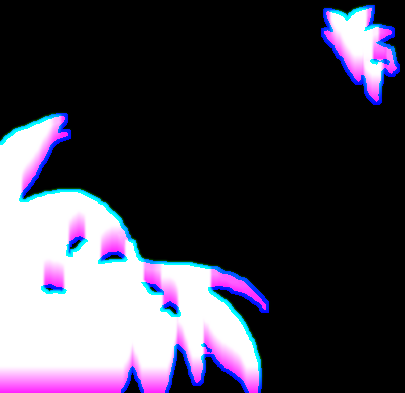
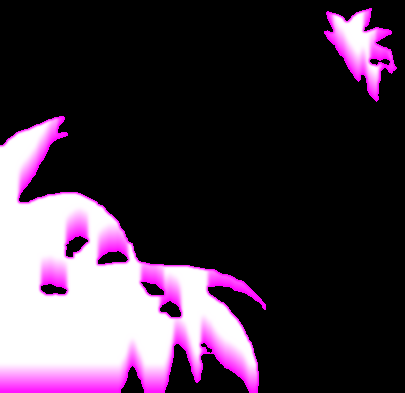
Smooth the living covers: still edges, no ghost clouds
The sky drifts over a smoothed copy of itself, so no second cloud shows
through, and its mask keeps 4 px clear of outlines. Leaves move only inside
their own shape, and water and leaves blend between pixels instead of
jumping. The painted-out tree backgrounds are no longer needed.

Changed region(s): [[0.0, 0.2748, 0.6815, 1.0], [0.7704, 0.0, 1.0, 0.2748]]

diff --git a/assets/js/living-covers-data.js b/assets/js/living-covers-data.js
@@ -2,19 +2,19 @@
    Generated from the cover masks; see assets/img/research/living/README.md.
    Boxes are in the 640 x 960 cover space. Nothing here is research data. */
 window.LonghandLiving = {
-    'nvda-2026-10-25': {"id": "nvda-road", "warps": [{"type": "flow", "box": [433, 556, 207, 252], "amp": 2.6}, {"type": "sway", "box": [0, 411, 640, 520], "amp": 3.4}, {"type": "track", "box": [525, 655, 115, 63], "origin": [3.75, 7.938], "dir": [0.912, 0.41], "length": 121.995, "across": [-5.625, 2.5], "speed": 4.375}, {"type": "twinkle", "box": [439, 562, 201, 223], "amp": 1}], "sprites": [], "hoist": {"pivot": [518.125, 376.25], "load": [512.5, 397.5, 11.875, 10.0], "lift": 12.5, "swing": 2.2, "period": 9}, "base": true, "sky": 2.2},
-    'ihsg-weekly-2026-10-23': {"id": "ihsg-plaza", "warps": [{"type": "sway", "box": [0, 253, 640, 418], "amp": 4.2}], "sprites": [], "sky": 2.6},
-    'ihsg-weekly-2026-10-16': {"id": "ihsg-trust", "warps": [], "sprites": [{"name": "pan-left", "box": [48, 192, 196, 270], "origin": [0.52, 0.034], "swing": 2.0, "period": 4.6, "phase": 0}, {"name": "pan-right", "box": [392, 325, 199, 263], "origin": [0.464, 0.007], "swing": 1.6, "period": 5.2, "phase": 0.5}], "base": true, "sky": 2.2},
-    'more-nickel-2026-10-15': {"id": "nickel-seaview", "warps": [{"type": "flow", "box": [0, 342, 640, 618], "amp": 3.8}, {"type": "twinkle", "box": [0, 384, 640, 576], "amp": 1}], "sprites": [], "sky": 2.4},
-    'ihsg-weekly-2026-10-09': {"id": "ihsg-recovery", "warps": [{"type": "sway", "box": [0, 731, 640, 229], "amp": 4.0}, {"type": "twinkle", "box": [0, 337, 640, 507], "amp": 1}], "sprites": [], "sky": 2.2},
-    'adro-2026-09-03': {"id": "smelter", "warps": [], "sprites": [], "sky": 2.8},
-    'macro-2026-09-24': {"id": "rates", "warps": [{"type": "sway", "box": [0, 244, 135, 317], "amp": 4.6}], "sprites": [], "sky": 2.6},
-    'the-power-behind-ai-2026-09-24': {"id": "ai-power", "warps": [{"type": "sway", "box": [0, 585, 598, 375], "amp": 4.0}, {"type": "twinkle", "box": [0, 272, 640, 647], "amp": 1}], "sprites": [], "sky": 2.2},
-    'ihsg-weekly-2026-09-25': {"id": "ihsg-september", "warps": [{"type": "sway", "box": [0, 567, 405, 393], "amp": 3.6}], "sprites": [], "sky": 2.4},
-    'inet-2026-09-27': {"id": "inet", "warps": [{"type": "flow", "box": [0, 339, 640, 298], "amp": 3.6}, {"type": "sway", "box": [0, 804, 640, 156], "amp": 4.0}, {"type": "twinkle", "box": [0, 370, 640, 251], "amp": 1}], "sprites": [], "sky": 2.4},
-    'ihsg-weekly-2026-10-02': {"id": "ihsg-october", "warps": [{"type": "sway", "box": [0, 614, 544, 346], "amp": 4.0}, {"type": "twinkle", "box": [0, 205, 640, 755], "amp": 1}], "sprites": [], "sky": 2.4},
-    'indonesia-ai-power-water-2026-10-05': {"id": "ai-resource", "warps": [{"type": "flow", "box": [0, 604, 640, 315], "amp": 3.6}, {"type": "sway", "box": [0, 206, 640, 754], "amp": 4.2}, {"type": "twinkle", "box": [17, 611, 623, 302], "amp": 1}], "sprites": [], "sky": 2.4},
-    'us-treasury-update-2026-10-08': {"id": "treasury", "warps": [{"type": "sway", "box": [0, 189, 640, 650], "amp": 3.6}], "sprites": [], "sky": 2.4},
-    'coal-in-transition-2026-10-08': {"id": "coal-trade", "warps": [{"type": "flow", "box": [0, 373, 640, 359], "amp": 3.6}, {"type": "twinkle", "box": [0, 379, 640, 347], "amp": 1}], "sprites": [], "sky": 2.4},
-    'the-power-behind-ai-update-2026-10-09': {"id": "ai-october", "warps": [{"type": "flow", "box": [196, 336, 444, 91], "amp": 3.4}, {"type": "sway", "box": [0, 119, 170, 398], "amp": 4.2}, {"type": "twinkle", "box": [208, 343, 432, 78], "amp": 1}], "sprites": [], "sky": 2.4}
+    'nvda-2026-10-25': {"id": "nvda-road", "warps": [{"type": "flow", "box": [433, 556, 207, 252], "amp": 2.08}, {"type": "sway", "box": [0, 411, 640, 520], "amp": 2.04}, {"type": "track", "box": [525, 655, 115, 63], "origin": [3.75, 7.9375], "dir": [0.9119215051751063, 0.41036467732879783], "length": 121.99514910950354, "across": [-5.625, 2.5], "speed": 4.375}, {"type": "twinkle", "box": [439, 562, 201, 223], "amp": 1}], "sprites": [], "hoist": {"pivot": [518.125, 376.25], "load": [512.5, 397.5, 11.875, 10.0], "lift": 12.5, "swing": 2.2, "period": 9}, "sky": 2.2, "base": true},
+    'ihsg-weekly-2026-10-23': {"id": "ihsg-plaza", "warps": [{"type": "sway", "box": [0, 253, 640, 418], "amp": 2.52}], "sprites": [], "sky": 2.6, "base": true},
+    'ihsg-weekly-2026-10-16': {"id": "ihsg-trust", "warps": [], "sprites": [{"name": "pan-left", "box": [48, 192, 196, 270], "origin": [0.5204081632653061, 0.03425925925925926], "swing": 2.0, "period": 4.6, "phase": 0}, {"name": "pan-right", "box": [392, 325, 199, 263], "origin": [0.4641959798994975, 0.007129277566539924], "swing": 1.6, "period": 5.2, "phase": 0.5}], "sky": 2.2, "base": true},
+    'more-nickel-2026-10-15': {"id": "nickel-seaview", "warps": [{"type": "flow", "box": [0, 342, 640, 618], "amp": 3.04}, {"type": "twinkle", "box": [0, 384, 640, 576], "amp": 1}], "sprites": [], "sky": 2.4, "base": true},
+    'ihsg-weekly-2026-10-09': {"id": "ihsg-recovery", "warps": [{"type": "sway", "box": [0, 731, 640, 229], "amp": 2.4}, {"type": "twinkle", "box": [0, 337, 640, 507], "amp": 1}], "sprites": [], "sky": 2.2, "base": true},
+    'adro-2026-09-03': {"id": "smelter", "warps": [], "sprites": [], "sky": 2.8, "base": true},
+    'macro-2026-09-24': {"id": "rates", "warps": [{"type": "sway", "box": [0, 244, 135, 317], "amp": 2.76}], "sprites": [], "sky": 2.6, "base": true},
+    'the-power-behind-ai-2026-09-24': {"id": "ai-power", "warps": [{"type": "sway", "box": [0, 585, 598, 375], "amp": 2.4}, {"type": "twinkle", "box": [0, 272, 640, 647], "amp": 1}], "sprites": [], "sky": 2.2, "base": true},
+    'ihsg-weekly-2026-09-25': {"id": "ihsg-september", "warps": [{"type": "sway", "box": [0, 567, 405, 393], "amp": 2.16}], "sprites": [], "sky": 2.4, "base": true},
+    'inet-2026-09-27': {"id": "inet", "warps": [{"type": "flow", "box": [0, 339, 640, 298], "amp": 2.88}, {"type": "sway", "box": [0, 804, 640, 156], "amp": 2.4}, {"type": "twinkle", "box": [0, 370, 640, 251], "amp": 1}], "sprites": [], "sky": 2.4, "base": true},
+    'ihsg-weekly-2026-10-02': {"id": "ihsg-october", "warps": [{"type": "sway", "box": [0, 614, 544, 346], "amp": 2.4}, {"type": "twinkle", "box": [0, 205, 640, 755], "amp": 1}], "sprites": [], "sky": 2.4, "base": true},
+    'indonesia-ai-power-water-2026-10-05': {"id": "ai-resource", "warps": [{"type": "flow", "box": [0, 604, 640, 315], "amp": 2.88}, {"type": "sway", "box": [0, 206, 640, 754], "amp": 2.52}, {"type": "twinkle", "box": [17, 611, 623, 302], "amp": 1}], "sprites": [], "sky": 2.4, "base": true},
+    'us-treasury-update-2026-10-08': {"id": "treasury", "warps": [{"type": "sway", "box": [0, 189, 640, 650], "amp": 2.16}], "sprites": [], "sky": 2.4, "base": true},
+    'coal-in-transition-2026-10-08': {"id": "coal-trade", "warps": [{"type": "flow", "box": [0, 373, 640, 359], "amp": 2.88}, {"type": "twinkle", "box": [0, 379, 640, 347], "amp": 1}], "sprites": [], "sky": 2.4, "base": true},
+    'the-power-behind-ai-update-2026-10-09': {"id": "ai-october", "warps": [{"type": "flow", "box": [196, 336, 444, 91], "amp": 2.72}, {"type": "sway", "box": [0, 119, 170, 398], "amp": 2.52}, {"type": "twinkle", "box": [208, 343, 432, 78], "amp": 1}], "sprites": [], "sky": 2.4, "base": true}
 };

diff --git a/assets/js/living-covers.js b/assets/js/living-covers.js
@@ -53,8 +53,8 @@
     let st = null;
     const type = spec.type;
     const files = type === 'track' ? [pixels(`${dir}track.webp`)]
-      : [pixels(`${dir}${type}.webp`), pixels(`${dir}${type}-data.png`), type === 'sway' ? pixels(`${dir}sway-bg.webp`) : null];
-    Promise.all(files).then(([src, data, bg]) => {
+      : [pixels(`${dir}${type}.webp`), pixels(`${dir}${type}-data.png`)];
+    Promise.all(files).then(([src, data]) => {
       if (type === 'track') {
         const [ox, oy] = spec.origin, [ux, uy] = spec.dir, nx = -uy, ny = ux, L = spec.length, [c0, c1] = spec.across;
         const cells = [];
@@ -68,8 +68,19 @@
       }
       const channel = type === 'twinkle' ? 0 : 2, active = [];
       for (let i = 0; i < w * h; i++) if (data[i * 4 + channel] > 128) active.push(i);
-      st = { src, data, bg: bg || src, active: Int32Array.from(active), col: new Float32Array(w), row: new Float32Array(h) };
+      st = { src, data, active: Int32Array.from(active), col: new Float32Array(w), row: new Float32Array(h) };
     }).catch(() => {});
+
+    // Copies the part's colour at a fractional column of the same row, blending the
+    // two pixels either side. Columns outside the part keep the pixel's own colour.
+    function shifted(o, s, i, c, sc) {
+      const c0 = Math.floor(sc), f = sc - c0, row = i - c, k = i * 4;
+      const a = c0 >= 0 && c0 < w && s.data[(row + c0) * 4] > 128 ? (row + c0) * 4 : k;
+      const b = c0 + 1 >= 0 && c0 + 1 < w && s.data[(row + c0 + 1) * 4] > 128 ? (row + c0 + 1) * 4 : k;
+      const p = s.src;
+      o[k] = p[a] + (p[b] - p[a]) * f; o[k + 1] = p[a + 1] + (p[b + 1] - p[a + 1]) * f;
+      o[k + 2] = p[a + 2] + (p[b + 2] - p[a + 2]) * f; o[k + 3] = 255;
+    }
 
     function frame(t) {
       if (!st) return;
@@ -104,10 +115,8 @@
           s.col[c] = A * gust * (0.75 * sin(t * 2.1 - (c + x) * 0.05) + 0.25 * sin(t * 3.6 - (c + x) * 0.13));
         }
         for (const i of s.active) {
-          const c = i % w, d = s.col[c] * (s.data[i * 4 + 1] / 255);
-          const j = i - c + Math.max(0, Math.min(w - 1, Math.round(c - d)));
-          const own = s.data[j * 4] > 128, m = (own ? j : i) * 4, from = own ? s.src : s.bg, k = i * 4;
-          o[k] = from[m]; o[k + 1] = from[m + 1]; o[k + 2] = from[m + 2]; o[k + 3] = 255;
+          const c = i % w;
+          shifted(o, s, i, c, c - s.col[c] * (s.data[i * 4 + 1] / 255));
         }
       } else {
         // Water: ripples travel down the frame, larger nearer the viewer.
@@ -115,10 +124,7 @@
         for (let r = 0; r < h; r++) s.row[r] = (r + y) * 0.3 - t * 1.9;
         for (const i of s.active) {
           const c = i % w, r = (i - c) / w;
-          const sc = Math.round(c - A * (s.data[i * 4 + 1] / 255) * sin(s.row[r] + s.col[c]));
-          const j = sc >= 0 && sc < w && s.data[(i - c + sc) * 4] > 128 ? i - c + sc : i;
-          const k = i * 4, m = j * 4;
-          o[k] = s.src[m]; o[k + 1] = s.src[m + 1]; o[k + 2] = s.src[m + 2]; o[k + 3] = 255;
+          shifted(o, s, i, c, c - A * (s.data[i * 4 + 1] / 255) * sin(s.row[r] + s.col[c]));
         }
       }
       ctx.putImageData(out, 0, 0);
@@ -139,7 +145,7 @@
       sky.style.webkitMaskImage = sky.style.maskImage = `url(${dir}sky.png)`;
       sky.style.setProperty('--amp', `${d.sky}%`);
       sky.style.setProperty('--period', `${22 + (d.id.length % 7) * 2}s`);
-      sky.innerHTML = `<img src="${picture}" alt="" width="640" height="960">`;
+      sky.innerHTML = `<img src="${dir}clouds.webp" alt="" width="640" height="960">`;
       layer.appendChild(sky);
     }
     const frames = d.warps.map((spec) => warp(layer, dir, spec));

diff --git a/library.html b/library.html
@@ -59,8 +59,8 @@
 <script src="assets/js/research-graph.js?v=2026-10-25nvda" defer></script>
 <script src="assets/js/v2.js?v=2026-10-11continuity" defer blocking="render"></script>
 <script src="assets/js/research-art.js?v=2026-10-25nvda" defer></script>
-<script src="assets/js/living-covers-data.js?v=2026-10-26living" defer></script>
-<script src="assets/js/living-covers.js?v=2026-10-26living4" defer></script>
+<script src="assets/js/living-covers-data.js?v=2026-10-27polish" defer></script>
+<script src="assets/js/living-covers.js?v=2026-10-27polish" defer></script>
 <script src="assets/js/library.js?v=2026-10-12geography" defer blocking="render"></script>
 <!-- Reader counts, no cookies: longhandresearch.goatcounter.com -->
 <script data-goatcounter="https://longhandresearch.goatcounter.com/count" async src="https://gc.zgo.at/count.js"></script>

diff --git a/index.html b/index.html
@@ -59,8 +59,8 @@
 <script src="assets/js/site.js?v=2026-10-24" defer blocking="render"></script>
 <script src="assets/js/v2.js?v=2026-10-11continuity" defer blocking="render"></script>
 <script src="assets/js/research-art.js?v=2026-10-25nvda" defer></script>
-<script src="assets/js/living-covers-data.js?v=2026-10-26living" defer></script>
-<script src="assets/js/living-covers.js?v=2026-10-26living4" defer></script>
+<script src="assets/js/living-covers-data.js?v=2026-10-27polish" defer></script>
+<script src="assets/js/living-covers.js?v=2026-10-27polish" defer></script>
 <script src="assets/js/home-v2.js?v=2026-10-24" defer></script>
 <script src="assets/js/home.js?v=2026-10-11editorial-final" defer></script>
 <script src="assets/js/research-graph.js?v=2026-10-25nvda" defer></script>

diff --git a/report.html b/report.html
@@ -64,8 +64,8 @@
 <script src="assets/js/research-graph.js?v=2026-10-25nvda" defer></script>
 <script src="assets/js/v2.js?v=2026-10-11continuity" defer blocking="render"></script>
 <script src="assets/js/research-art.js?v=2026-10-25nvda" defer></script>
-<script src="assets/js/living-covers-data.js?v=2026-10-26living" defer></script>
-<script src="assets/js/living-covers.js?v=2026-10-26living4" defer></script>
+<script src="assets/js/living-covers-data.js?v=2026-10-27polish" defer></script>
+<script src="assets/js/living-covers.js?v=2026-10-27polish" defer></script>
 <script src="assets/js/report-context.js?v=2026-10-11a11y" defer></script>
 </head>
 <body data-report-publication class="v2-page page-report">

diff --git a/TASKS.md b/TASKS.md
@@ -117,7 +117,8 @@ takeover authorization while Claude is unavailable.
 | WEB-033 | Stop skipped page transitions logging an uncaught AbortError on the weekly pages | Claude | `claude/theme-transition-catch` | Done (merged on the owner's instruction while Codex is at its usage limit, no second-agent review) | [PR #124](https://github.com/LonghandResearch/longhandresearch.github.io/pull/124). The first diagnosis (`site.js:441`) was wrong: the theme switch already catches its promises. The cause was the `pagereveal` handler on `ihsg-weekly.html` and `ihsg-weekly-2026-09-25.html`, which left `ready` and `updateCallbackDone` unhandled. Both pages now use the same catch line as the other 13 pages. Site check and 116 tests pass. |
 | RPT-020 | Publish the owner's NVIDIA initiation (BUY, target $285) as a PDF, with a cover and discovery records | Claude | `claude/nvda-initiation` | Done (owner instructed publication and merge on 25 October without a second-agent review, so QA-007 follows) | Claude checked the owner's PDF against the Q2 FY27 10-Q, the FY26 10-K, the CFO commentary, the 23 October close and the Treasury curve. All reported figures and internal arithmetic held. Eight fixes were made in the PDF itself because its source file was not on this computer: the omitted $105bn SB Energy guarantee, the $20bn third-party lease label, the missing FY30 $2bn equity commitment, the basis of the scenario returns, $216 to $215 to match Exhibit 36, a risk watch item and one article. A text and pixel diff confirmed nothing else changed. "Not a Cliff. The Road Goes On.", No. 016. Cover chosen by the owner, see `assets/img/research/covers/nvda-road-art.json`. NVIDIA joins the research graph as a NASDAQ listing with US geography. Site check and 116 tests pass. |
 | QA-007 | Independent review of RPT-020 against `QA.md`: the eight PDF fixes, the catalogue entry, key data and the research graph records. Not yet checked by Claude: the 17 November results date, customer capex figures, the Damodaran ERP and peer enterprise values | Codex | `codex/review-nvda` | Backlog | |
-| WEB-034 | Bring 15 report covers to life with their own clouds, water, trees and lights, installed on Home, Library and report pages | Claude | `claude/living-covers` | Review | [PR #127](https://github.com/LonghandResearch/longhandresearch.github.io/pull/127). Owner approved the NVDA living preview and the gallery of the other 14 on 26 October after several rounds (coal ship removed, stronger motion, water glints, lights). Shared engine `assets/js/living-covers.js`, data file, 4.3 MB of lazily loaded assets and a covers README. Masks from Adobe select-by-prompt plus leaf-colour rules for two covers. Site check and 119 tests pass. Hover, phone and report-page waking checked in the browser. |
+| WEB-034 | Bring 15 report covers to life with their own clouds, water, trees and lights, installed on Home, Library and report pages | Claude | `claude/living-covers` | Done (merged 26 October Jakarta time after Codex review) | [PR #127](https://github.com/LonghandResearch/longhandresearch.github.io/pull/127). Owner approved the NVDA living preview and the gallery of the other 14 on 26 October after several rounds (coal ship removed, stronger motion, water glints, lights). Shared engine `assets/js/living-covers.js`, data file, 4.3 MB of lazily loaded assets and a covers README. Masks from Adobe select-by-prompt plus leaf-colour rules for two covers. Site check and 119 tests pass. Hover, phone and report-page waking checked in the browser. |
+| WEB-035 | Polish the living covers after the owner saw ghosting, visible outlines and stiff swaying up close | Claude | `claude/living-covers-polish` | Review | Owner feedback on 27 October. The sky now drifts over a smoothed still sky (no second copy of a cloud), the sky mask stays 4 px clear of every outline, and the clouds layer fades to plain sky beyond it so no roof or branch is pulled along. Leaves move only inside a plant's own shape, a little more gently, and water and leaves blend between pixels instead of jumping. The painted-out tree backgrounds (`sway-bg.webp`) are gone. Site check and 119 tests pass; checked close up in the browser. |
 
 ## Status values
 

diff --git a/assets/img/research/living/README.md b/assets/img/research/living/README.md
@@ -26,16 +26,23 @@ and holds pieces in the 640 x 960 cover space:
 
 | File | What it is |
 | --- | --- |
-| `sky.png` | Alpha mask of the sky, feathered at its edges; the sky drifts inside it |
+| `sky.png` | Alpha mask of the open sky, kept 4 px clear of every outline; the clouds drift inside it |
+| `clouds.webp` | The sky's clouds for drifting. Beyond the sky they fade into plain sky colour, so a drift never pulls a roof or a branch into view |
 | `flow*` | Water: its pixels, and a data image (red mask, green ripple strength) |
-| `sway*` | Trees or grass: pixels, the same with the plants painted out, and a data image (red mask, green sway height, blue reach) |
+| `sway*` | Trees or grass: pixels and a data image (red mask, green sway height, blue area that moves) |
 | `twinkle*` | Lights and water glints: pixels and a data image (red spot, green phase, blue light or glint) |
 | `track.webp` | NVIDIA: the strip around the valley track that scrolls forward |
 | `sprite-*.webp` | Parts that swing or hang: the Trust pans, the NVIDIA crane load |
-| `base.webp` | The cover with those swinging parts painted out (Trust and NVIDIA only) |
+| `base.webp` | The cover under the moving layers: the sky smoothed to its own soft colour so no second copy of a cloud shows through, and on Trust and NVIDIA the swinging parts painted out |
 
-`assets/js/living-covers-data.js` lists, per report id, what moves and where. Other
-covers reuse the existing `covers/*-art-640.webp` file for their drifting sky.
+`assets/js/living-covers-data.js` lists, per report id, what moves and where.
+
+## Keeping outlines still
+
+Ink outlines never move. Leaves sway only inside a plant's own shape and fade to
+still before its edge, so a tree's outline against a building or the sky stays
+put. Each moved pixel blends the two source pixels either side of it instead of
+jumping a whole pixel, which keeps leaves and ripples smooth when seen up close.
 
 ## How the masks were made
 
